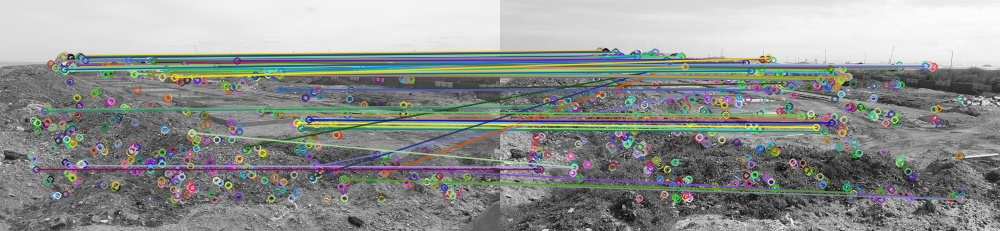
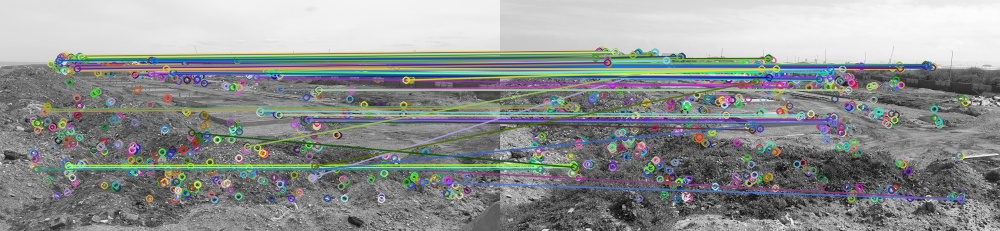
overlay output images

Changed region(s): [[0.031, 0.1818, 0.992, 0.8788], [0.93, 0.3939, 0.992, 0.5455]]

diff --git a/timelapse.py b/timelapse.py
@@ -15,7 +15,7 @@ MATCHER = cv2.DescriptorMatcher_create(cv2.DESCRIPTOR_MATCHER_BRUTEFORCE_HAMMING
 def resize(img):
     return imutils.resize(img, width=OUTPUT_IMAGE_WIDTH)
 
-def get_matches(img1, img2):
+def get_matches(img1, img2, img2_colour):
     # detect keypoints in each image
     # extract local invariant features
     (kp1, desc1) = ORB.detectAndCompute(img1, None)
@@ -48,15 +48,26 @@ def get_matches(img1, img2):
     (H, mask) = cv2.findHomography(pts2, pts1, method=cv2.RANSAC)
 	# use the homography matrix to align the images
     (h, w) = img1.shape[:2]
-    aligned_img = cv2.warpPerspective(img2, H, (w, h))
+    aligned_img = cv2.warpPerspective(img2_colour, H, (w, h))
     return aligned_img
 
+def overlay_images(img1, img2):
+    overlay = img1.copy()
+    output = img2.copy()
+    cv2.addWeighted(overlay, 0.5, output, 0.5, 0, output)
+    cv2.imshow('Overlayed 1 & 2', output)
+    cv2.imwrite('output/overlay-1-2.jpg', output)
 
 if __name__=='__main__':
-    img1 = resize(cv2.imread('photos/1.jpg', 0))
-    img2 = resize(cv2.imread('photos/2.jpg', 0))
+    img1 = resize(cv2.imread('photos/1.jpg'))
+    img2 = resize(cv2.imread('photos/2.jpg'))
 
-    aligned = get_matches(img1, img2)
+    img1_grey = cv2.cvtColor(img1, cv2.COLOR_BGR2GRAY)
+    img2_grey = cv2.cvtColor(img2, cv2.COLOR_BGR2GRAY)
+
+    aligned = get_matches(img1_grey, img2_grey, img2)
+
+    overlay_images(img1, aligned)
 
     cv2.imshow('img 1', img1)
     cv2.imshow('img 2', img2)
